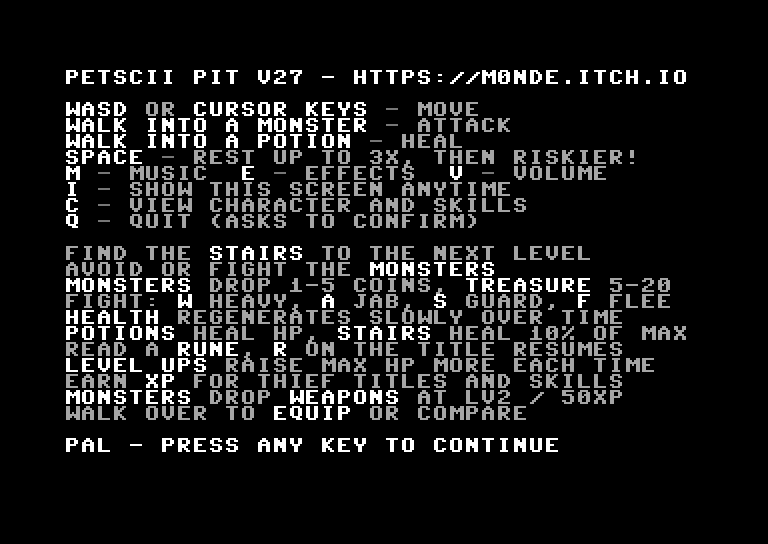
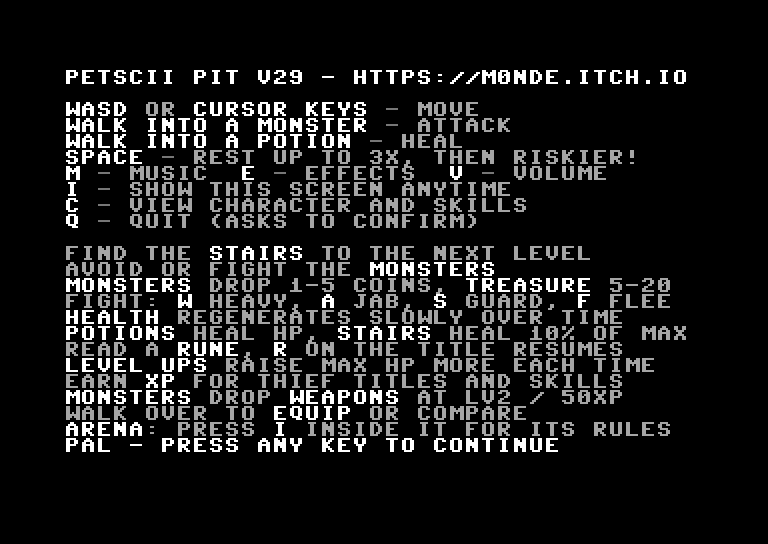
Screenshots for V28-V29: title, instructions, disk directory, CHAR's shop, the demo meeting CHAR, the arena

diff --git a/README.md b/README.md
@@ -89,7 +89,7 @@ The game must be launched from disk (LOAD"*",8 and RUN) because the games, music
 
 ## Screenshots
 
-[ASSETS](assets) - V27 screenshots: the title, STORY and ENDLESS, battles and ambushes, skills, weapons, game over, the demo and the [disk directory](assets/18-disk-directory.png)
+[ASSETS](assets) - Screenshots: the V29 title and instructions, STORY and ENDLESS, battles and ambushes, skills, weapons, game over, the demo, the [disk directory](assets/18-disk-directory.png), CHAR's shop ([room](assets/19-char-shop-room.png), [screen](assets/20-char-shop.png)) and the [Battle Arena](assets/24-arena-start-shop.png)
 
 ## Development Logs
 
